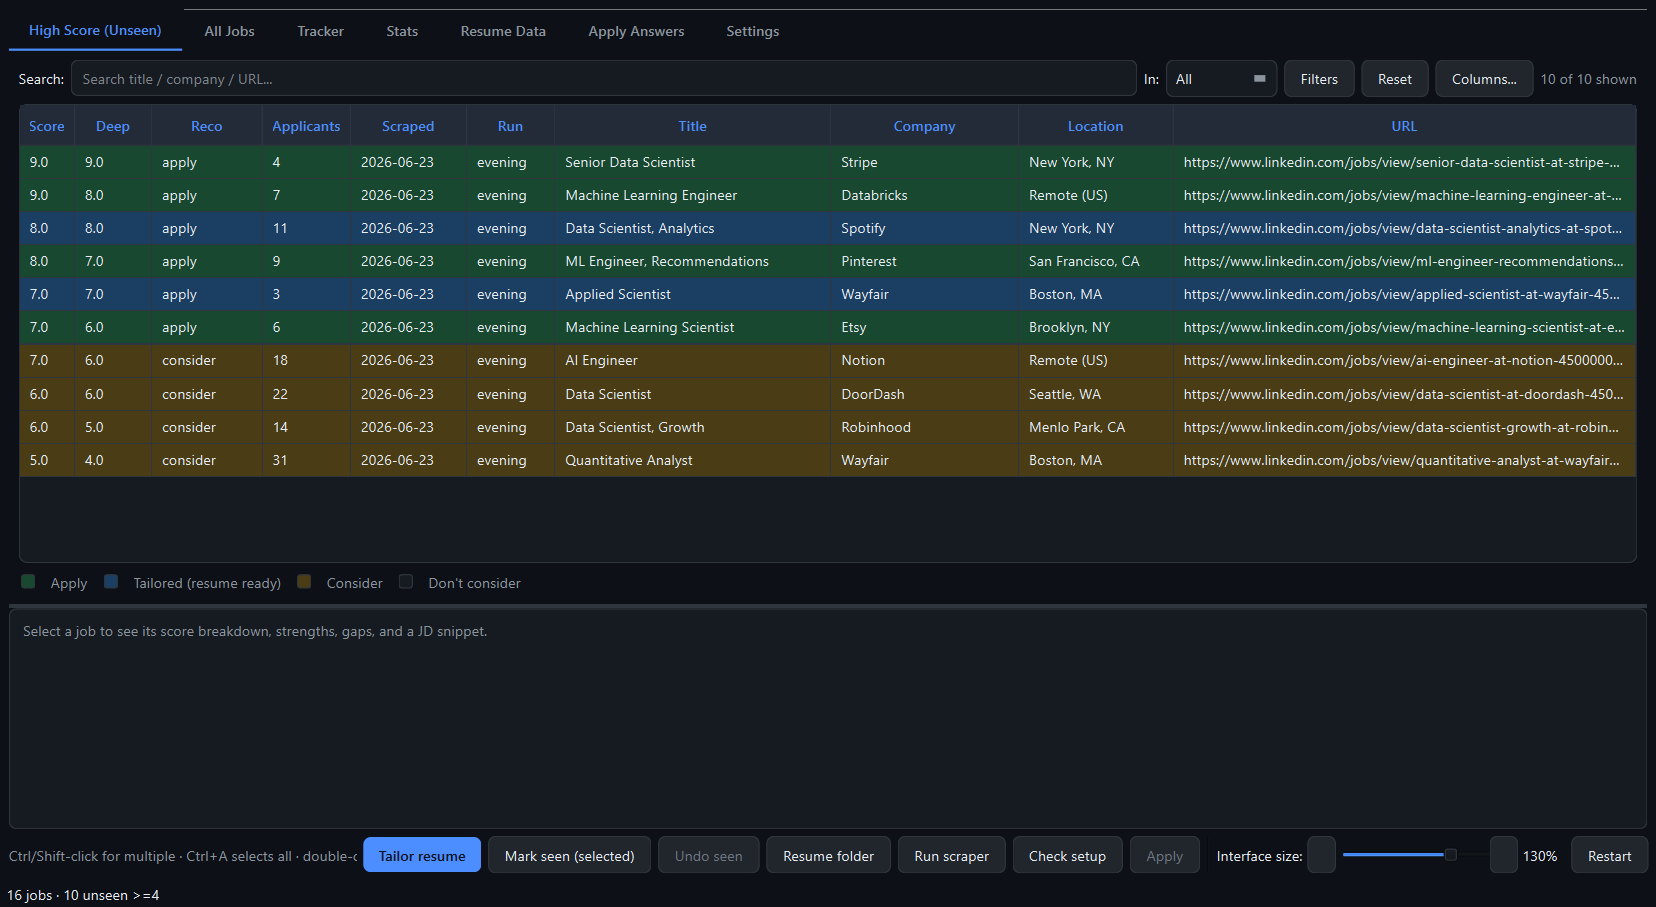
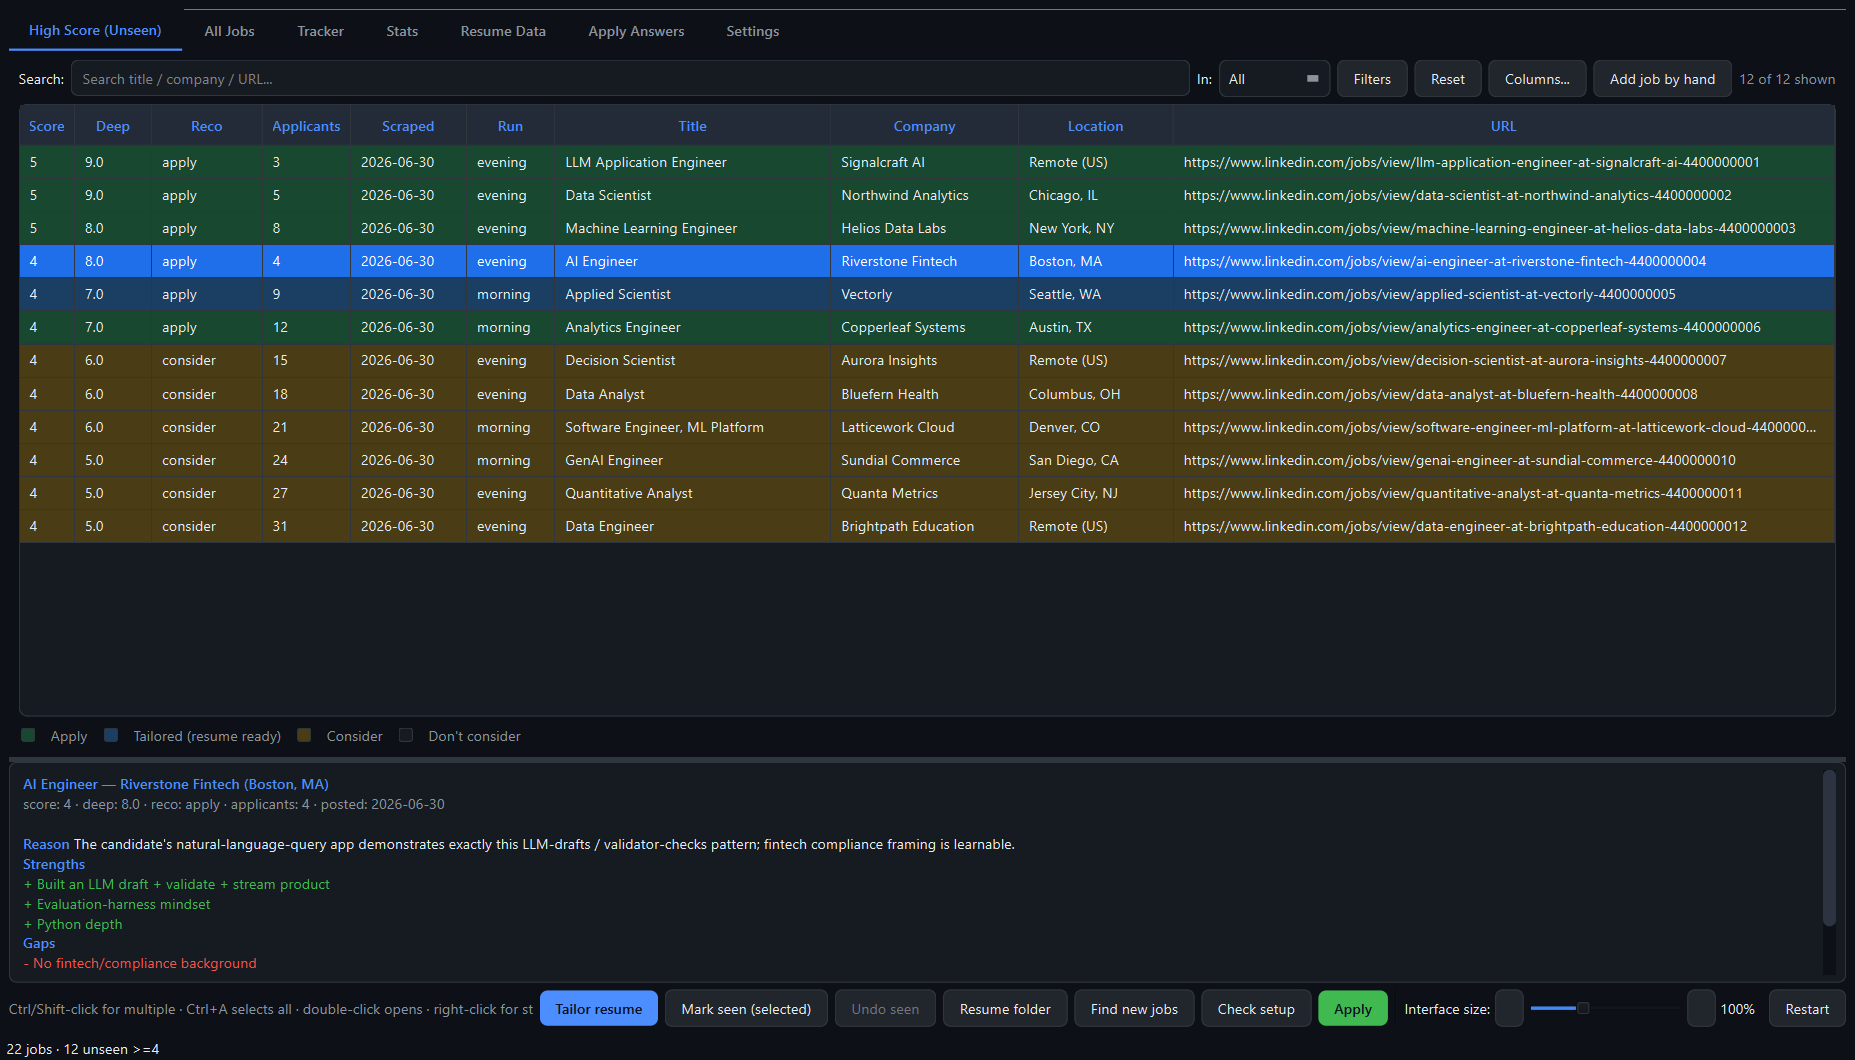
docs: refresh demo media to the current UI (sample data)
Re-captured dashboard.png (1855x1060) and demo.gif (8 frames, 1280x731) on
the current dashboard: bottom action bar with 'Find new jobs' + green Apply,
Add-job-by-hand toolbar button, and a Resume Data frame showing the Resume
Layout editor incl. 'Bullets by strength'. Fully synthetic sample data
(fictional companies, Jane Doe persona, credentials unset). README media
captions updated to match the new tour.

diff --git a/README.md b/README.md
@@ -29,14 +29,16 @@ It is three cooperating pieces:
 
 ## Demo
 
-![Animated tour of the dashboard: the High Score tab ranks discovered jobs by a two-stage LLM relevance score with apply / consider / tailored color tints; selecting a job reveals its score breakdown (reason, strengths, gaps); the All Jobs and Tracker tabs follow every posting and each application through applied, interviewing, offer, and rejected; the Resume Data tab holds the select-and-rephrase source of truth; and the Apply panel shows the self-contained apply sheet.](docs/demo.gif)
+![Animated tour of the dashboard: the High Score tab ranks discovered jobs by a two-stage LLM relevance score with apply / consider / tailored color tints; selecting a job reveals its score breakdown (reason, strengths, gaps); the All Jobs and Tracker tabs follow every posting and each application through applied, interviewing, offer, and rejected; the Stats tab reports per-run pipeline metrics; the Resume Data tab holds the select-and-rephrase source of truth plus the Resume Layout bullet-sizing editor; the Apply Answers tab stores reusable application answers; and the Settings tab configures the whole pipeline.](docs/demo.gif)
 
 A tour of the full loop: **High Score** ranks every discovered posting by a two-stage
 Gemini relevance score and color-codes the recommendation; selecting a job opens its
 **score breakdown** (reason, strengths, gaps); the **Tracker** follows each application
-from applied through interviewing, offer, or rejected; the **Resume Data** tab is the
-select-and-rephrase source of truth the tailor draws from; and the **Apply** panel
-produces a self-contained apply sheet. *(Shown with representative sample data.)*
+from applied through interviewing, offer, or rejected; **Stats** reports per-run
+pipeline metrics; the **Resume Data** tab is the select-and-rephrase source of truth
+the tailor draws from (including the Resume Layout bullet-sizing editor); **Apply
+Answers** holds the reusable answers the apply helper fills into forms; and
+**Settings** configures the whole pipeline. *(Shown with representative sample data.)*
 
 ---
 
@@ -390,7 +392,7 @@ QT_QPA_PLATFORM=offscreen python tests/smoke_qt.py   # Qt dashboard smoke test
 ```
 
 ## Screenshots
-![The High Score tab showing scored jobs with LLM relevance scores, deep scores, apply/consider/tailored color tints, and a recommendation legend (representative sample data)](docs/dashboard.png)
+![The High Score tab showing scored jobs with LLM relevance scores, deep scores, apply/consider/tailored color tints, a recommendation legend, and the selected job's score breakdown above the bottom action bar (representative sample data)](docs/dashboard.png)
 
 The **High Score** tab surfaces only unseen postings scoring ≥4, ordered by score then
 fewest applicants (the freshest apply window first). Selecting a row shows the model's